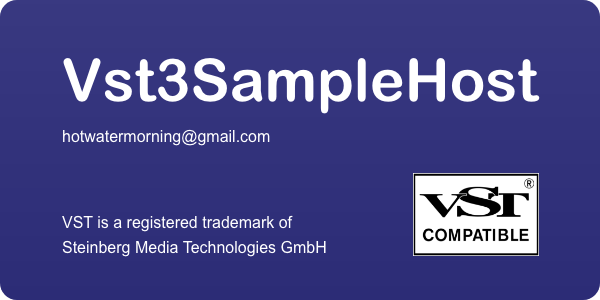
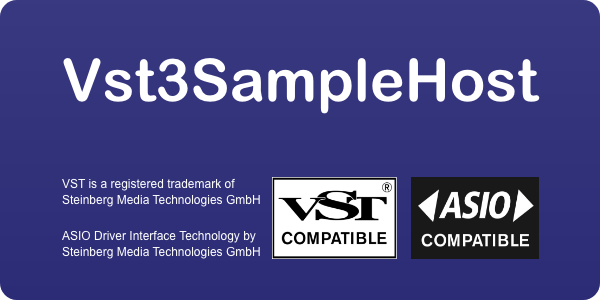
fix licensing issues

Changed region(s): [[0.09, 0.57, 0.9, 0.87], [0.09, 0.42, 0.45, 0.48]]

diff --git a/src/gui/AboutDialog.cpp b/src/gui/AboutDialog.cpp
@@ -79,6 +79,8 @@ public:
         
         panel_ = new Panel(this, wxID_ANY, wxDefaultPosition, image_.GetSize());
         
+        version_ = String(L"Version: ") + kAppVersion +
+        " (" + String(kAppCommitID).substr(0, 8) + ")";
         by_ = "by ";
         url_ = "diatonic.jp";
         url_actual_ = "https://diatonic.jp";
@@ -86,8 +88,14 @@ public:
         {
             wxClientDC dc(this);
             dc.SetFont(font_);
+            auto sz_version =  dc.GetTextExtent(version_);
             auto sz_by = dc.GetTextExtent(by_);
             auto sz_url = dc.GetTextExtent(url_);
+            
+            rc_version_ = wxRect {
+                wxPoint { padding_x_, link_offset_y_ },
+                sz_version
+            };
             
             rc_url_ = wxRect {
                 wxPoint { image_.GetWidth() - padding_x_ - sz_url.x, link_offset_y_ },
@@ -208,18 +216,8 @@ public:
 
         dc.SetFont(font_);
         dc.SetTextForeground(col_text_);
-        auto font_size = font_.GetPixelSize();
         
-        auto text_rect = wxRect{
-            wxPoint{ padding_x_, img.GetHeight() / 2 },
-            wxSize { img.GetWidth() - padding_x_ * 2, font_size.GetHeight() }
-        };
-        
-        auto const version_str =
-        String(L"Version: ") + kAppVersion +
-        L" (" + String(kAppCommitID).substr(0, 8) + L")";
-        
-        dc.DrawLabel(version_str, text_rect, wxALIGN_CENTER_VERTICAL);
+        dc.DrawLabel(version_, rc_version_, wxALIGN_CENTER_VERTICAL);
     }
     
 private:
@@ -227,14 +225,16 @@ private:
     wxFont font_;
     wxFont font_underlined_;
     GraphicsBuffer back_buffer_;
+    wxRect rc_version_;
     wxRect rc_by_;
     wxRect rc_url_;
     wxColour col_text_          = *wxWHITE;
     wxColour col_link_          = *wxWHITE;
     wxColour col_link_hover_    = wxColour(150, 150, 255);
-    std::string url_;
-    std::string url_actual_;
-    std::string by_;
+    wxString version_;
+    wxString url_;
+    wxString url_actual_;
+    wxString by_;
     bool is_hovering_ = false;
     Int32 const padding_x_ = 62;
     Int32 const link_offset_y_ = 113;

diff --git a/README.md b/README.md
@@ -79,7 +79,7 @@ start ..\build_debug\Debug\ChapterXX\Vst3SampleHost.exe
 
 ## ライセンスと依存ライブラリ
 
-Vst3SampleHostのソースコードは MIT License で公開します。配布するバイナリにはさらに "Proprietary Steinberg VST3" license が適用されます。
+Vst3SampleHostのソースコードは MIT License で公開します。配布するバイナリにはさらに Proprietary Steinberg VST3 License と Steinberg ASIO SDK License が適用されます。
 
 Vst3SampleHostは以下のライブラリに依存しています。
 
@@ -87,12 +87,13 @@ Vst3SampleHostは以下のライブラリに依存しています。
 * [PortAudio](http://www.portaudio.com/)
 * [VST3 SDK](https://github.com/steinbergmedia/vst3sdk)
 * [RtMidi](https://github.com/thestk/rtmidi)
+* [Catch2](https://github.com/catchorg/Catch2)
 
 ## 商標について
 
-VST is a trademark of Steinberg Media Technologies GmbH, registered in Europe and other countries.
+<img src="./misc/VST_Compatible_Logo_Steinberg_with_TM_negative.png" width="20%" height="20%" alt="VST Compatible Logo"></img>
 
-<img src="./misc/VST_Compatible_Logo_Steinberg_negative.png" width="20%" height="20%" alt="VST Compatible Logo"></img>
+<img src="./misc/ASIO-compatible-logo-Steinberg-TM-BW.jpg" width="20%" height="20%" alt="ASIO Compatible Logo"></img>
 
 ## 連絡先
 
